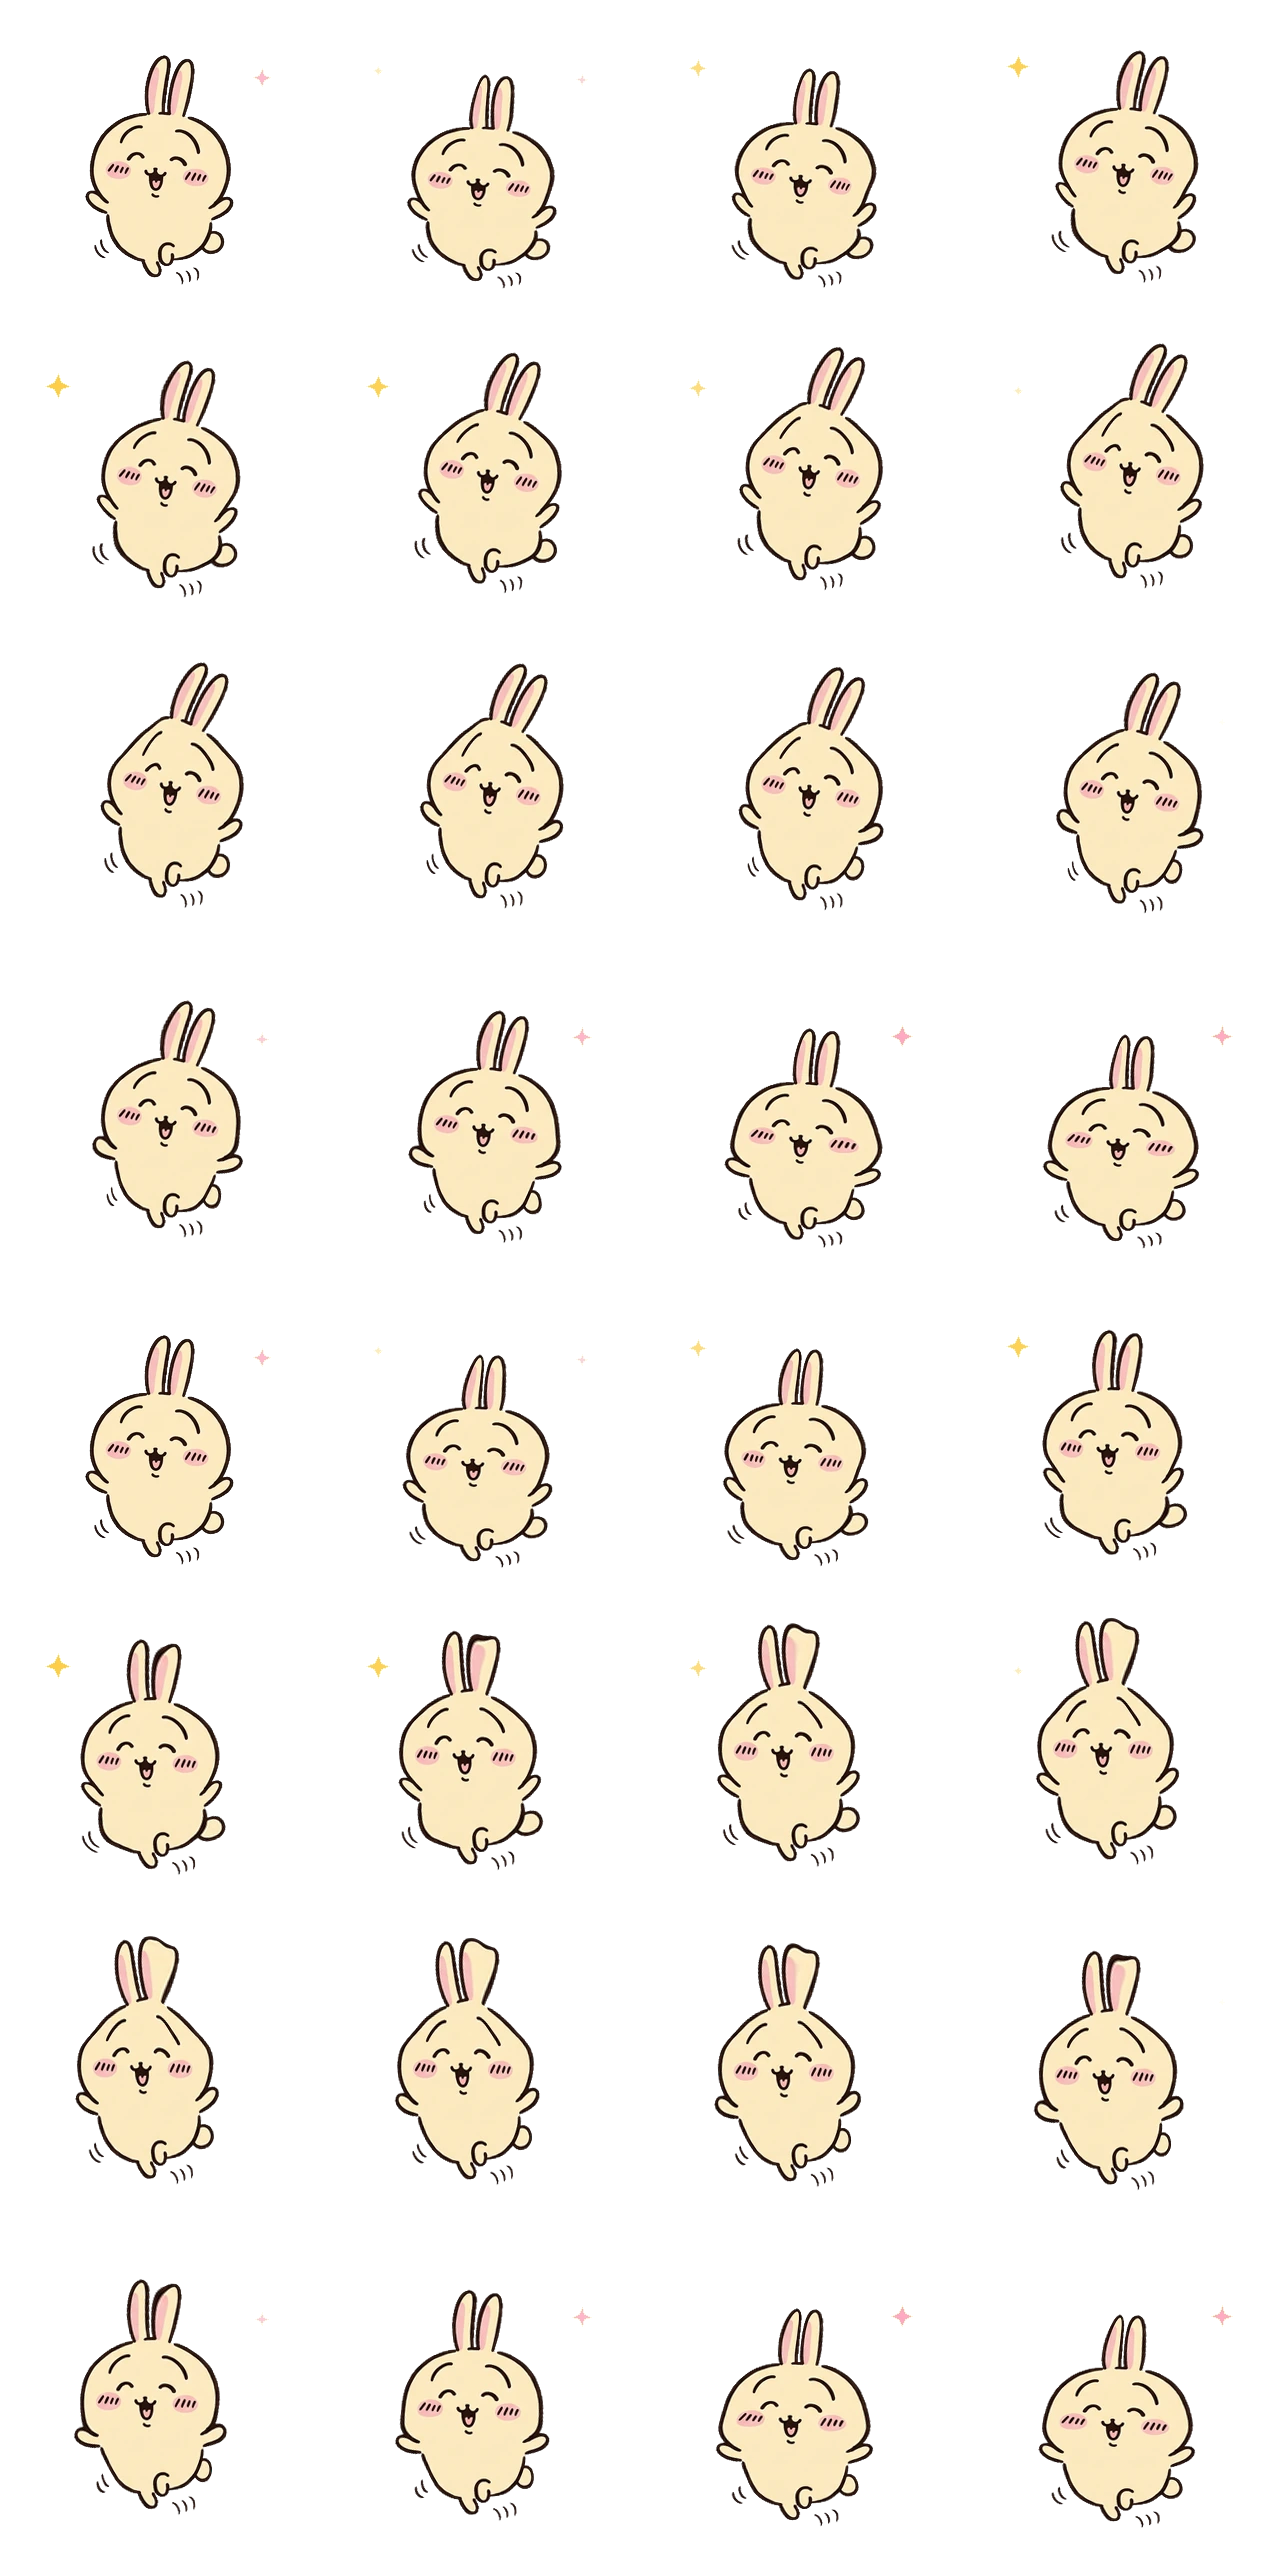
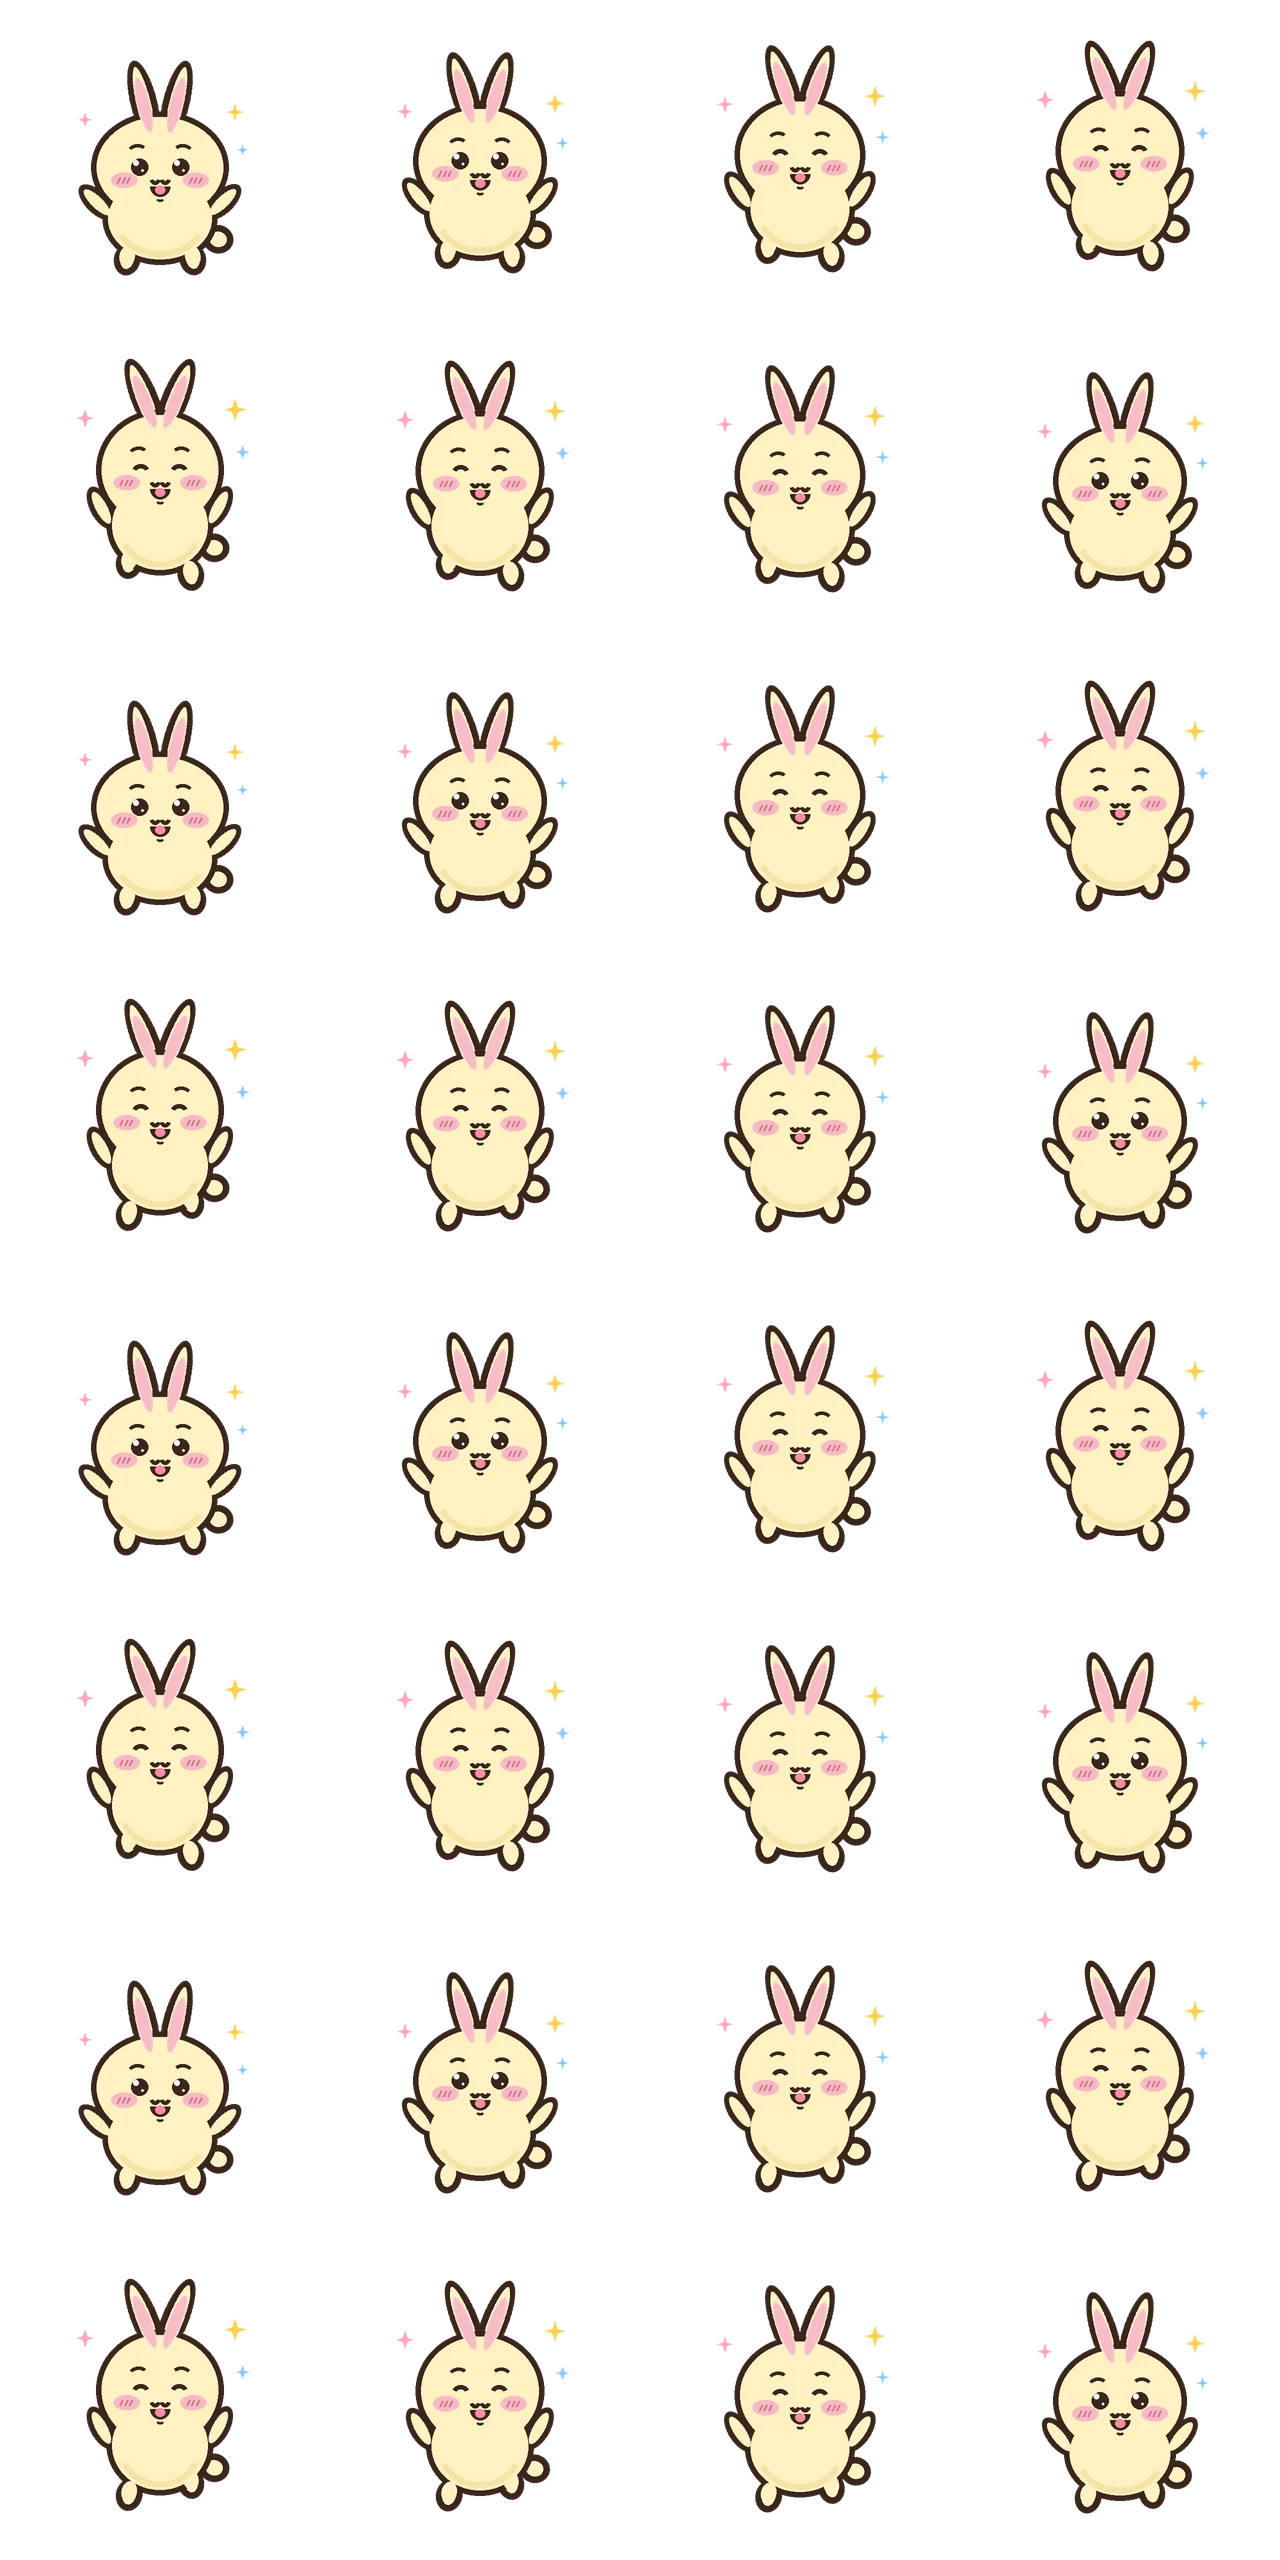
fix(pet): fix Usagi animation freeze, theme switch back to whale-chan & redraw faithful Usagi sprites

diff --git a/android/app/src/main/java/io/deepseekharness/mobile/overlay/CompanionPetDrawable.kt b/android/app/src/main/java/io/deepseekharness/mobile/overlay/CompanionPetDrawable.kt
@@ -41,7 +41,14 @@ internal class CompanionPetDrawable(
     private var displayed: Bitmap
     private var retainedCel: Bitmap? = null
     var onAtlasReady: (() -> Unit)? = null
+    val isUsagiTheme get() = usagiTheme
     val displayedClipName get() = displayedClip
+
+    fun resumeLiveTick() {
+        if (closed || pose.reduced || !ambientTickAllowed) return
+        main.removeCallbacks(liveTick)
+        invalidateSelf()
+    }
     val cachedAtlasCount get() = cache.size
     val cachedBitmapBytes get() = cache.values.sumOf { it.allocationByteCount.toLong() }
     // Reserve one idle plus four active clips (drag/touch/reading/return) so first drag is always warm.
@@ -117,6 +124,9 @@ internal class CompanionPetDrawable(
             if (assetKey(name) in cache) true else { request(name); false }
         }
         cache[assetKey(currentCel.clip)]?.let { show(it, currentCel) }
+        if (usagiTheme && !pose.reduced && ambientTickAllowed) {
+            invalidateSelf()
+        }
         playback.nextAtlas?.let { name ->
             if (assetKey(name) !in cache) { wanted = name; request(name) }
         }
@@ -169,7 +179,10 @@ internal class CompanionPetDrawable(
                     if (assetKey(wanted) !in cache) request(wanted)
                 }
             }
-            if (!posted) bitmap?.recycle()
+            if (!posted) {
+                decoding = false
+                bitmap?.recycle()
+            }
         }
     }
 
@@ -219,7 +232,8 @@ internal class CompanionPetDrawable(
 
     private fun displayedSource(): Rect {
         retainedCel?.let { source.set(0, 0, it.width, it.height); return source }
-        val rows = PetCels.clips.getValue(displayedClip).rows
+        val cellW = (displayed.width / PetCels.COLUMNS).coerceAtLeast(1)
+        val rows = (displayed.height / cellW).coerceAtLeast(1)
         val totalCells = (PetCels.COLUMNS * rows).coerceAtLeast(1)
         val effectiveFrame = if (usagiTheme && !pose.reduced) {
             val stepMs = when (pose.action) {
@@ -230,8 +244,7 @@ internal class CompanionPetDrawable(
         } else {
             displayedFrame.coerceIn(0, totalCells - 1)
         }
-        val cellW = displayed.width / PetCels.COLUMNS
-        val cellH = displayed.height / rows
+        val cellH = (displayed.height / rows).coerceAtLeast(1)
         val col = effectiveFrame % PetCels.COLUMNS
         val row = effectiveFrame / PetCels.COLUMNS
         source.set(col * cellW, row * cellH, (col + 1) * cellW, (row + 1) * cellH)

diff --git a/android/app/src/main/java/io/deepseekharness/mobile/OverlayBallService.kt b/android/app/src/main/java/io/deepseekharness/mobile/OverlayBallService.kt
@@ -1263,6 +1263,7 @@ class OverlayBallService : Service() {
             return
         }
         drawable.ambientTickAllowed = true
+        drawable.resumeLiveTick()
         val resumedAt=SystemClock.uptimeMillis()
         if(!wasRunning && resumeTimeline) {
             petActing.resume(resumedAt,drawable.currentPose)
@@ -1320,7 +1321,7 @@ class OverlayBallService : Service() {
                     val old = petDrawable
                     companionFrame?.let(hintHandler::removeCallbacks);companionFrame=null
                     petDrawable = next
-                    if (old != null) next.retainVisibleFrom(old)
+                    if (old != null && old.isUsagiTheme == next.isUsagiTheme) next.retainVisibleFrom(old)
                     next.onAtlasReady = {
                         if (petDrawable === next && companionSurfaceVisible() && companionMotionEnabled()) wakePetMotion()
                     }
@@ -2754,6 +2755,14 @@ class OverlayBallService : Service() {
                     (child.background as? GradientDrawable)?.setColor(overlayColor(R.color.overlay_resize_background))
                 }
             }
+        }
+        val wantUsagi = getSharedPreferences("whale-interface", 0).getString("style", "cute") == "usagi"
+        val curView = ballView
+        if (curView != null && ballAttached && petDrawable?.isUsagiTheme != wantUsagi) {
+            val sizePx = maxOf(curView.width, curView.height, dp(64))
+            loadCompanionAvatar(curView, sizePx)
+        } else {
+            petDrawable?.resumeLiveTick()
         }
         actionMenu?.let { showPetMenu(it.page) }
         refreshControlPose()

diff --git a/android/app/src/main/java/io/deepseekharness/mobile/companion/WhaleNativeToolRegistry.kt b/android/app/src/main/java/io/deepseekharness/mobile/companion/WhaleNativeToolRegistry.kt
@@ -974,6 +974,7 @@ internal class WhaleNativeToolRegistry(private val context: Context) {
                     val payload = JSONObject().put("action", "appearance")
                     if (style in setOf("simple", "cute", "usagi")) {
                         app.getSharedPreferences("whale-interface", Context.MODE_PRIVATE).edit().putString("style", style).apply()
+                        runCatching { io.deepseekharness.mobile.OverlayBallService.refreshAppearance() }
                         payload.put("style", style)
                     }
                     if (theme in setOf("system", "light", "dark")) {
